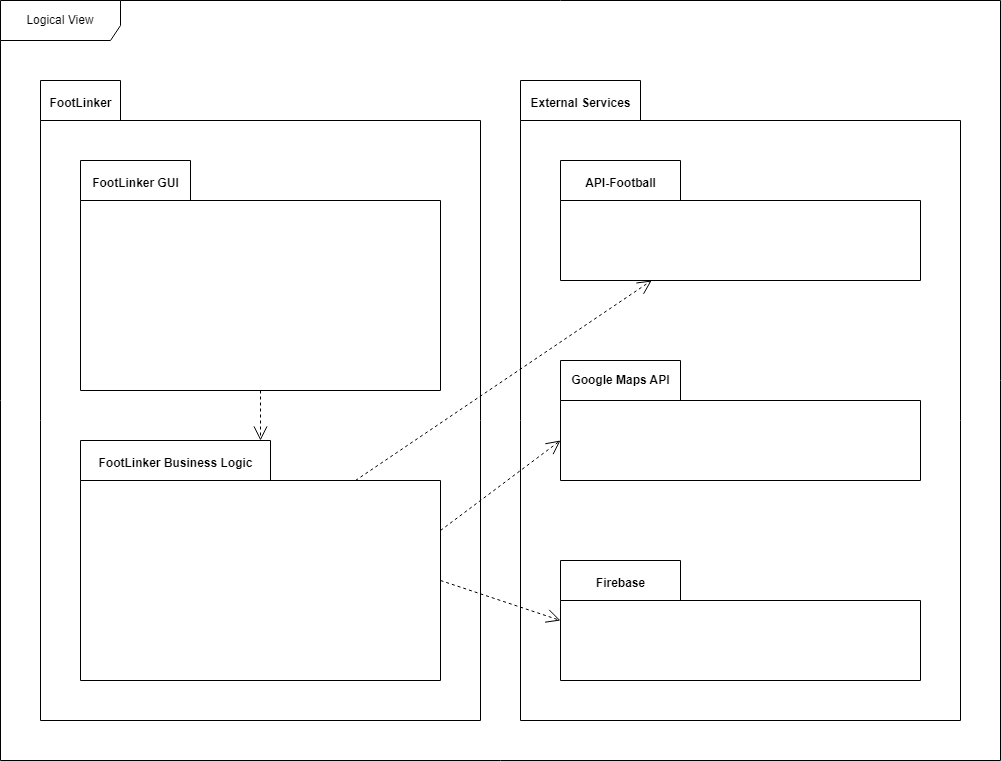
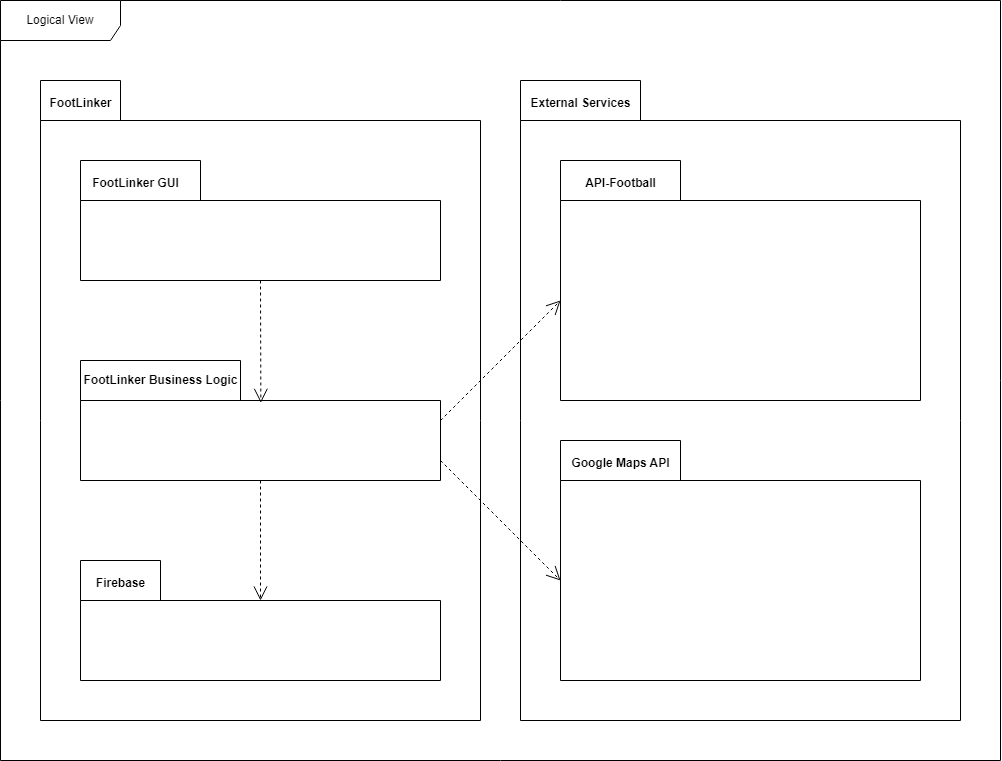
changed logical architecture as suggested

diff --git a/docs/ArchitectureAndDesign.md b/docs/ArchitectureAndDesign.md
@@ -7,11 +7,11 @@
 
 **FootLinker Business Logic:** module responsible for the app logic
 
+**Firebase:** module responsible for cloud storage and users' authentication
+
 **API-Footbal:** external API responsible for supplying all information related to football (fixtures, leagues, teams, venues, ...)
 
 **Google Maps API:** external API responsible for location services and giving directions to stadiums
-
-**Firebase:** external server responsible for cloud storage and users' authentication
 
 ![LogicalView](../images/LogicalArchitecture.png)
 
